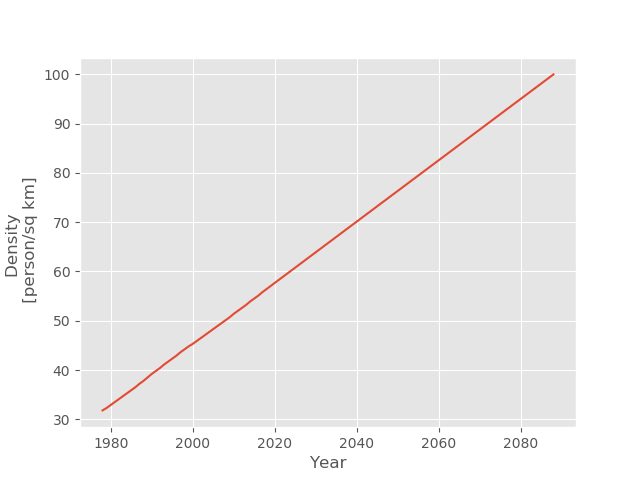
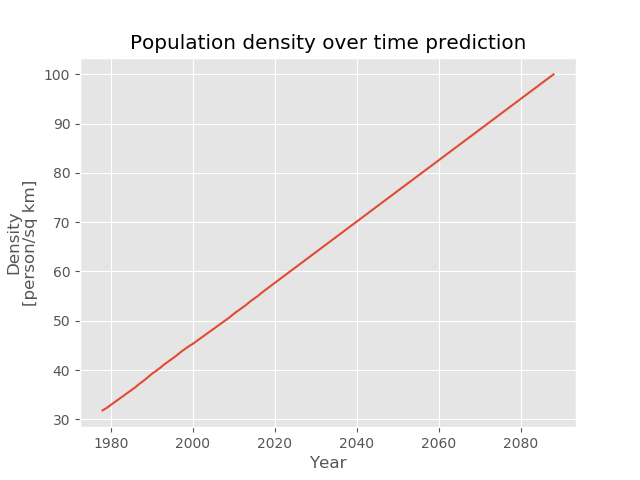
upgraded plots

Changed region(s): [[0.1875, 0.0625, 0.8125, 0.125], [0.0, 0.375, 0.0625, 0.6562]]

diff --git a/plot_real_and_predicted_pop.py b/plot_real_and_predicted_pop.py
@@ -6,12 +6,14 @@ plt.style.use('ggplot')
 file = ".\df_real_and_predicted_pop.csv"
 df = pd.read_csv(file, delimiter=',')
 
-plt.plot(df['Year'], df['Population'], "g")
+plt.plot(df['Year'], df['Population']/1000000000000, "g")
 plt.xlabel("Year")
-plt.ylabel("Population")
+plt.ylabel("Population\n[trillions of people]")
+plt.title('Population over time')
 plt.show()
 # Population change from 2000 to 2088
-plt.plot(df['Year'][22:41], df['Population'][22:41], 'r')
+plt.plot(df['Year'][22:41], df['Population'][22:41]/1000000000, 'maroon')
+plt.title('Population over time in XXI century')
 plt.xlabel("Year")
-plt.ylabel("Population")
+plt.ylabel("Population\n[billions of people]")
 plt.show()

diff --git a/code_pop_prediction.py b/code_pop_prediction.py
@@ -36,10 +36,11 @@ model = sm.OLS(y_pred, y_test).fit()
 #print('Standard error:', model.bse) # [0.00061961]
 
 # Plotting comparison of real and predicted population values
-plt.plot(X_test, y_test,  color='r', label="Test values")
-plt.plot(X_test, y_pred, color='b', label="Predicted values")
+plt.plot(X_test, y_test/1000000000,  color='r', label="Test values")
+plt.plot(X_test, y_pred/1000000000, color='b', label="Predicted values")
 plt.xlabel("Year")
-plt.ylabel("Population")
+plt.ylabel("Population\n[billions of people]")
+plt.xticks(np.arange(2008,2018,1))
 plt.title("Test values vs predicted values")
 plt.legend(loc="lower right")
 plt.show()

diff --git a/plot_predicted_pop.py b/plot_predicted_pop.py
@@ -6,7 +6,8 @@ plt.style.use('ggplot')
 file = ".\df_predicted_pop.csv"
 df = pd.read_csv(file, delimiter=',')
 
-plt.plot(df['Year'], df['Population'], "g")
+plt.plot(df['Year'], df['Population']/1000000000000, "g")
+plt.title('Population over time')
 plt.xlabel("Year")
-plt.ylabel("Population")
+plt.ylabel("Population\n[trillions of people]")
 plt.show()

diff --git a/plot_predicted_density.py b/plot_predicted_density.py
@@ -7,6 +7,7 @@ file = ".\df_real_and_predicted_pop.csv"
 df = pd.read_csv(file, delimiter=',')
 
 plt.plot(df['Year'][:41], df['Density'][:41])
+plt.title('Population density over time prediction')
 plt.xlabel("Year")
-plt.ylabel("Density \n [person/sq km]")
+plt.ylabel("Density\n[person/sq km]")
 plt.show()
